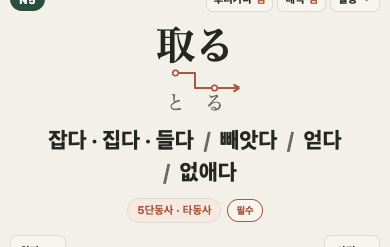
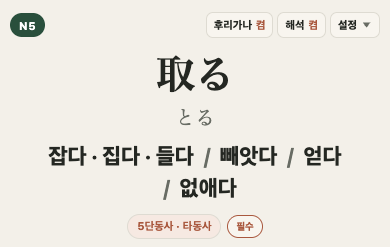
docs(release): recapture v1.3.0 screenshots

diff --git a/docs/jlpt-gallery-updates/v1.3.0.html b/docs/jlpt-gallery-updates/v1.3.0.html
@@ -75,7 +75,7 @@
   </div>
 
   <div style="margin:20px 0 0;padding:18px;background:#f4f7f5;border:1px solid #dfe5e1;">
-    <img src="https://truthyblue.github.io/jlpt-max-deck/assets/releases/v1.3.0/gallery-v1.3.0-kanji-writing-full.png" alt="한자 쓰기 카드 전체 화면" width="390" height="1020" style="display:block;width:100%;max-width:390px;height:auto;margin:0 auto;border:0;">
+    <img src="https://truthyblue.github.io/jlpt-max-deck/assets/releases/v1.3.0/gallery-v1.3.0-kanji-writing-full.png" alt="한자 쓰기 카드 전체 화면" width="390" height="1012" style="display:block;width:100%;max-width:390px;height:auto;margin:0 auto;border:0;">
     <div style="margin-top:10px;color:#59645e;font-size:13px;text-align:center;">새 한자 쓰기 카드의 전체 화면</div>
   </div>
 
